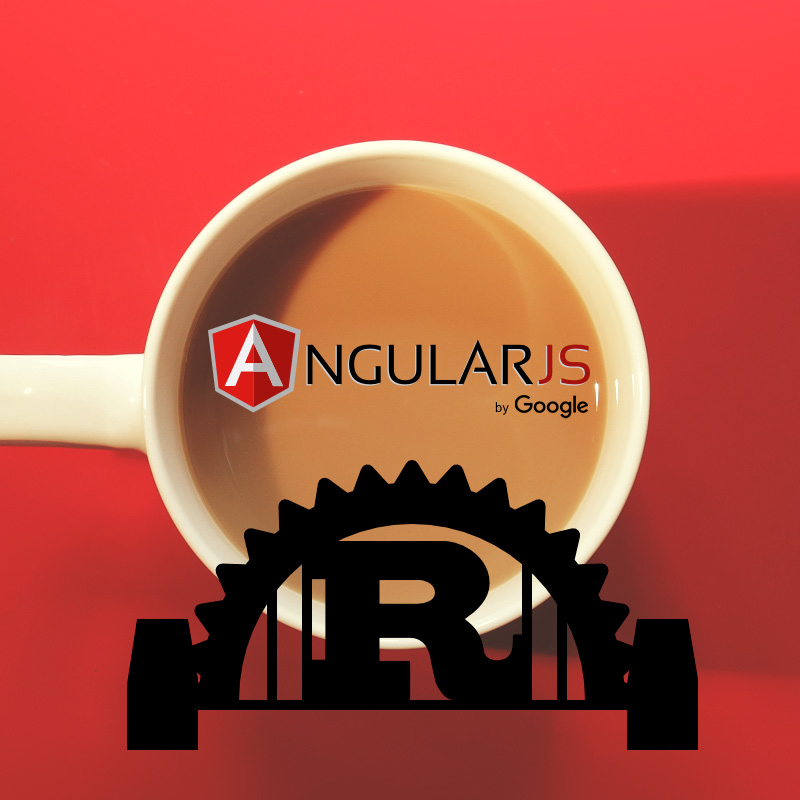
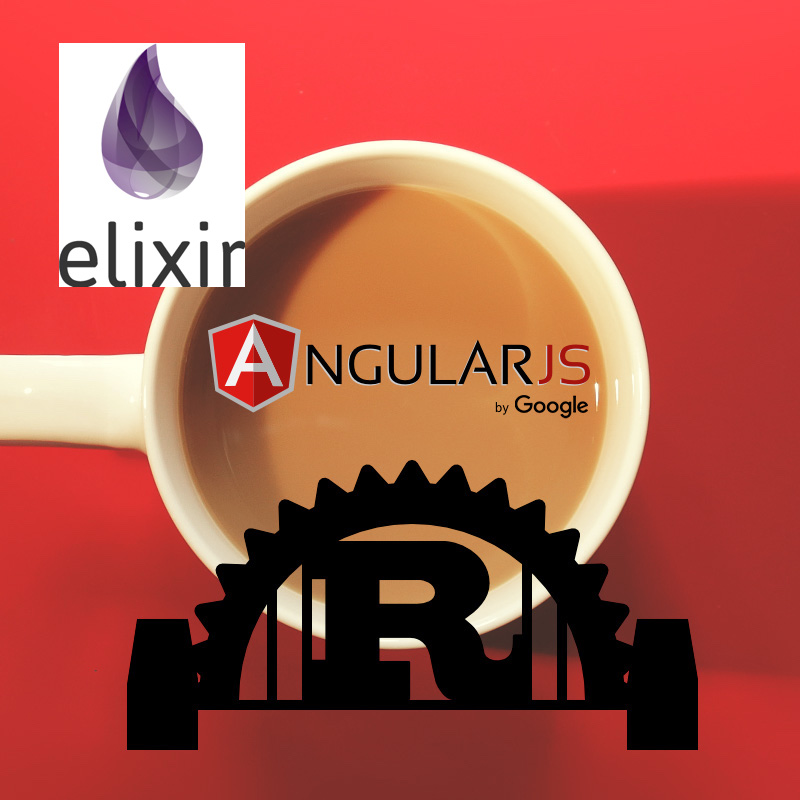
fix pics

Changed region(s): [[0.0625, 0.0312, 0.3125, 0.375]]

diff --git a/index.html b/index.html
@@ -278,8 +278,10 @@
                         <img alt="" src="images/portfolio/exodus.jpg">
                         <div class="overlay">
                            <div class="portfolio-item-meta">
-                            <h5>Exodus</h5>
-                            <p>Angular.js SPA scaffolding (Rust + nickel framework + PostgreSQL)</p>
+                            <h5>Some Modules</h5>
+                            <p>
+                                Fushicho:Elixir&Phoenix), Mewcalc. Portkille:Python
+                                Angular.js SPA scaffolding (Rust + nickel framework + PostgreSQL)</p>
                             </div>
                         </div>
                         <div class="link-icon"><i class="icon-plus"></i></div>
@@ -303,13 +305,11 @@
                      </a>
 
                   </div>
-                  </div> <!-- item end -->
-
+               </div> <!-- item end -->
                <div class="columns portfolio-item">
                   <div class="item-wrap">
-
                      <a href="#modal-03" title="">
-                        <img alt="" src="images/portfolio/judah.jpg">
+                        <img alt="" src="images/portfolio/joker.jpg">
                         <div class="overlay">
                            <div class="portfolio-item-meta">
                               <h5>Joker</h5>
@@ -329,11 +329,11 @@
                   <div class="item-wrap">
 
                      <a href="#modal-04" title="">
-                        <img alt="" src="images/portfolio/into-the-light.jpg">
+                        <img alt="" src="images/portfolio/pygame.jpg">
                         <div class="overlay">
                            <div class="portfolio-item-meta">
                               <h5>Python module</h5>
-                              <p>I developed as my hobby.</p>
+                              <p>I translated.</p>
                               </div>
                         </div>
                         <div class="link-icon"><i class="icon-plus"></i></div>
@@ -359,9 +359,8 @@
 
                <div class="columns portfolio-item">
                   <div class="item-wrap">
-
                      <a href="#modal-06" title="">
-                        <img alt="" src="images/portfolio/girl.jpg">
+                        <img alt="" src="images/portfolio/shannon.jpg">
                         <div class="overlay">
                            <div class="portfolio-item-meta">
                               <h5>Web system by Django and Unity</h5>
@@ -377,11 +376,11 @@
                <div class="columns portfolio-item">
                   <div class="item-wrap">
                      <a href="#modal-07" title="">
-                        <img alt="" src="images/portfolio/origami.jpg">
+                        <img alt="" src="images/portfolio/onigokko.jpg">
                         <div class="overlay">
                            <div class="portfolio-item-meta">
-                              <h5>Fushicho</h5>
-                              <p>Elixir module.</p>
+                              <h5>Onigokko in 3D City</h5>
+                              <p>Unity 3D game.</p>
                               </div>
                         </div>
                         <div class="link-icon"><i class="icon-plus"></i></div>
@@ -393,7 +392,7 @@
                   <div class="item-wrap">
 
                      <a href="#modal-08" title="">
-                        <img alt="" src="images/portfolio/retrocam.jpg">
+                        <img alt="" src="images/portfolio/zomotsu.jpg">
                         <div class="overlay">
                            <div class="portfolio-item-meta">
                               <h5>Zomotsu Uranai</h5>
@@ -415,19 +414,15 @@
           --------------------------------------------------------------- -->
 
          <div id="modal-01" class="popup-modal mfp-hide">
-
-            <img class="scale-with-grid" src="images/portfolio/modals/m-coffee.jpg" alt="" />
-
+            <img class="scale-with-grid" src="images/portfolio/modals/exodus.jpg" alt="" />
             <div class="description-box">
-                <h4>Exodus</h4>
-                Just you can git clone.
-               <span class="categories"><i class="fa fa-tag"></i>Rust</span>
-               <span class="categories"><i class="fa fa-tag"></i>nickel</span>
-               <span class="categories"><i class="fa fa-tag"></i>AngularJS</span>
+                <h4>Some Modules</h4>
+                Hobby program. Elixir, React JS, Python
+               <span class="categories"><i class="fa fa-tag"></i>Rust, nickel. Python, AngularJS</span>
             </div>
-
             <div class="link-box">
-               <a href="http://qiita.com/shinriyo@github/items/92fc8db27d6fd0025963">Details</a>
+               <a href="http://qiita.com/shinriyo@github/items/92fc8db27d6fd0025963">Details1</a>
+               <a href="qiita.com/shinriyo@github/items/dca6227216cec2af2214">Details2</a>
                <a class="popup-modal-dismiss">Close</a>
             </div>
 
@@ -435,7 +430,7 @@
 
          <div id="modal-02" class="popup-modal mfp-hide">
 
-            <img class="scale-with-grid" src="images/portfolio/modals/m-console.jpg" alt="" />
+            <img class="scale-with-grid" src="images/portfolio/modals/gw.jpg" alt="" />
 
             <div class="description-box">
                 <h4>GotchaWarriors X</h4>
@@ -451,7 +446,7 @@
           </div><!-- modal-02 End -->
 
          <div id="modal-03" class="popup-modal mfp-hide">
-            <img class="scale-with-grid" src="images/portfolio/modals/m-judah.jpg" alt="" />
+            <img class="scale-with-grid" src="images/portfolio/modals/joker.jpg" alt="" />
             <div class="description-box">
                 <h4>Joker</h4>
                 <p>
@@ -460,26 +455,23 @@
                 </p>
                <span class="categories"><i class="fa fa-tag"></i>Branding</span>
             </div>
-
             <div class="link-box">
                <a href="http://joker.applibot.co.jp/">Details</a>
                <a class="popup-modal-dismiss">Close</a>
             </div>
 
           </div><!-- modal-03 End -->
-
          <div id="modal-04" class="popup-modal mfp-hide">
 
-            <img class="scale-with-grid" src="images/portfolio/modals/m-intothelight.jpg" alt="" />
-
+            <img class="scale-with-grid" src="images/portfolio/modals/pygame.jpg" alt="" />
             <div class="description-box">
-                <h4>Python Modules</h4>
-                <p>Mewcalc. Portkiller</p>
-               <span class="categories"><i class="fa fa-tag"></i>Python</span>
+                <h4>Translation</h4>
+                <p>Pygame Book</p>
+               <span class="categories"><i class="fa fa-tag"></i>Python, English</span>
             </div>
 
             <div class="link-box">
-               <a href="http://www.behance.net">Details</a>
+               <a href="https://www.amazon.co.jp/exec/obidos/ASIN/4048704397/">Details</a>
                <a class="popup-modal-dismiss">Close</a>
             </div>
 
@@ -506,7 +498,7 @@
 
          <div id="modal-06" class="popup-modal mfp-hide">
 
-            <img class="scale-with-grid" src="images/portfolio/modals/m-girl.jpg" alt="" />
+            <img class="scale-with-grid" src="images/portfolio/modals/shannon.jpg" alt="" />
 
             <div class="description-box">
                 <h4>Web Application, Unity Application
@@ -527,26 +519,21 @@
             </div>
 
           </div><!-- modal-06 End -->
-
          <div id="modal-07" class="popup-modal mfp-hide">
-
-            <img class="scale-with-grid" src="images/portfolio/modals/m-origami.jpg" alt="" />
-
+            <img class="scale-with-grid" src="images/portfolio/modals/onigokko.jpg" alt="" />
             <div class="description-box">
-                <h4>Fushicho</h4>
-                <p>Elixir module.</p>
-               <span class="categories"><i class="fa fa-tag"></i>Hobby program. Elixir, React JS.</span>
+                <h4>Onigokko in 3D City</h4>
+                <p>Unity game.</p>
+               <span class="categories"><i class="fa fa-tag"></i>Unity, C#</span>
             </div>
-
             <div class="link-box">
-               <a href="qiita.com/shinriyo@github/items/dca6227216cec2af2214">Details</a>
+               <a href="https://play.google.com/store/apps/details?id=jp.co.pockertqueries.vroni&hl=ja">Details</a>
                <a class="popup-modal-dismiss">Close</a>
             </div>
-
           </div><!-- modal-07 End -->
 
          <div id="modal-08" class="popup-modal mfp-hide">
-            <img class="scale-with-grid" src="images/portfolio/modals/m-retrocam.jpg" alt="" />
+            <img class="scale-with-grid" src="images/portfolio/modals/zomotsu.jpg" alt="" />
             <div class="description-box">
                 <h4>Zomotu Uranai</h4>
                 <p><a href="http://zo-motsu.com/">description site.</a></p>
